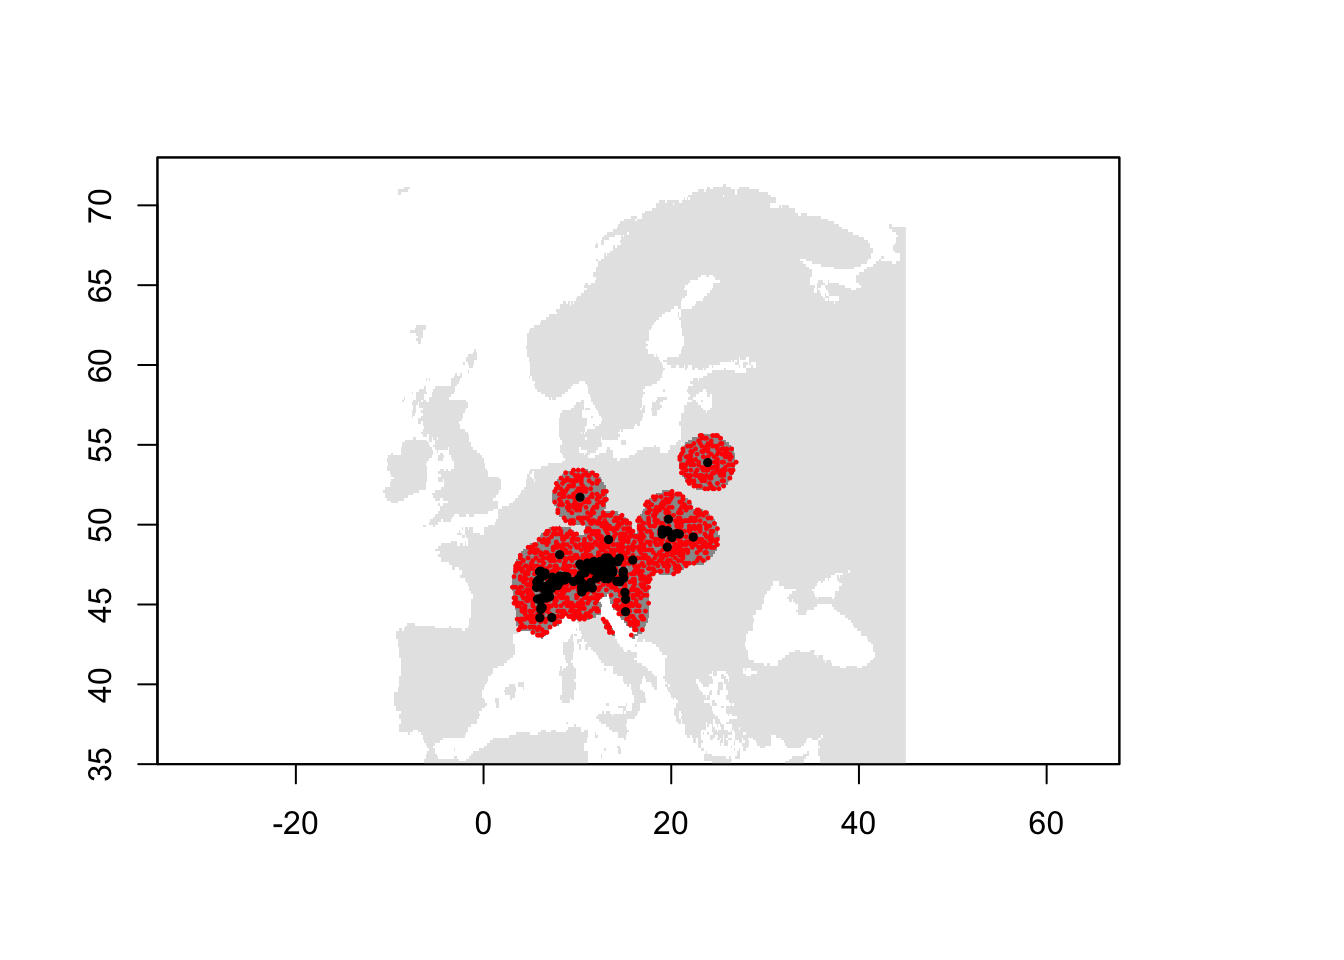
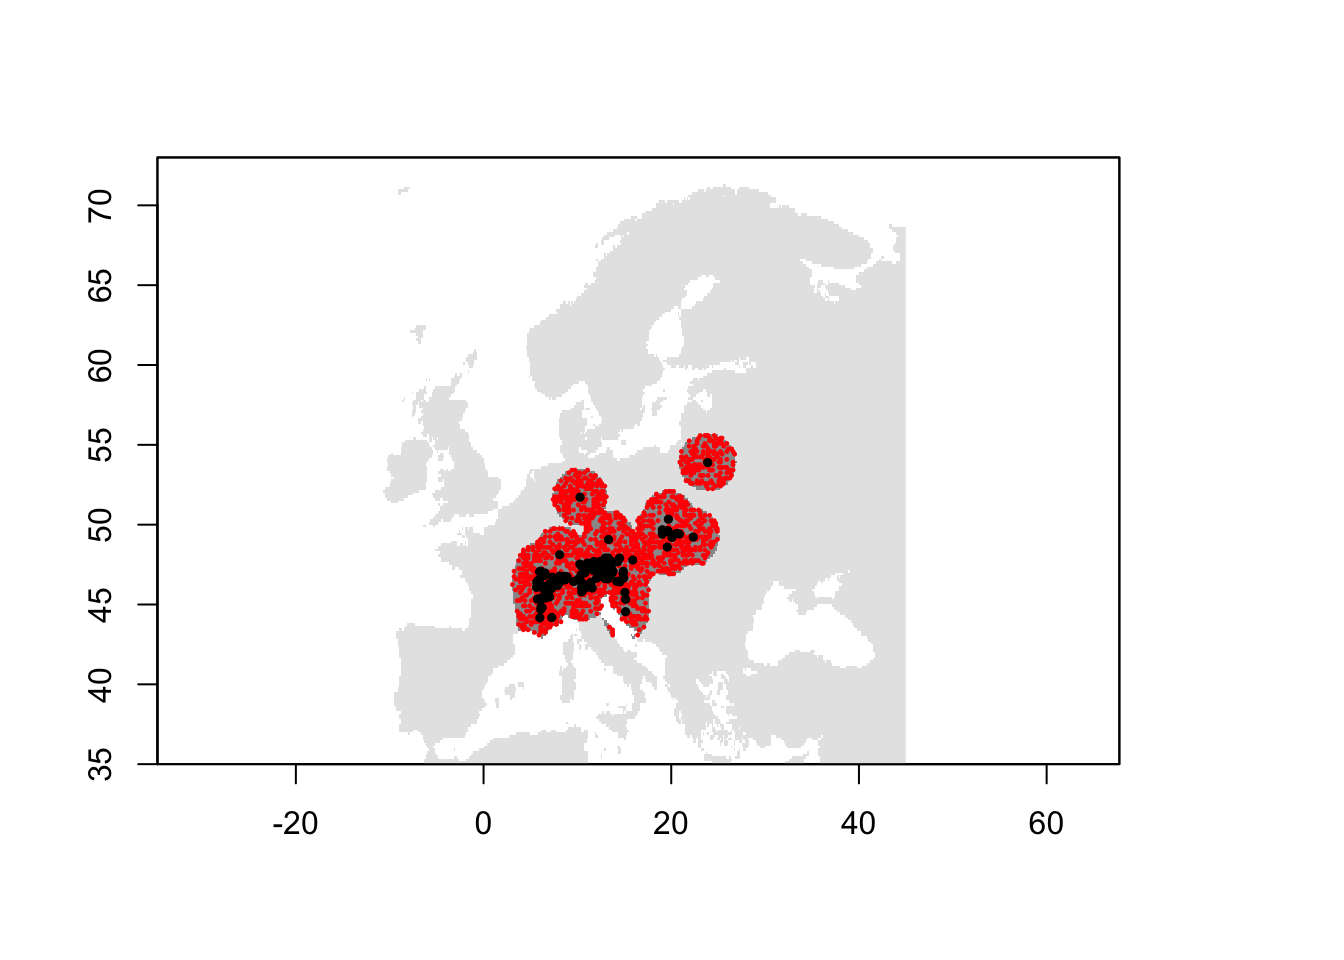
add spatial thinning

Changed region(s): [[0.375, 0.4375, 0.5625, 0.6562]]

diff --git a/5_pseudoabsence.html b/5_pseudoabsence.html
@@ -651,84 +651,158 @@ bg_dat &lt;- data.frame(bg_dat)
 summary(bg_dat)</code></pre>
 <pre><code>##        x                y        
 ##  Min.   : 3.083   Min.   :43.08  
-##  1st Qu.: 9.083   1st Qu.:46.42  
-##  Median :13.750   Median :48.42  
-##  Mean   :14.195   Mean   :48.62  
-##  3rd Qu.:19.583   3rd Qu.:50.42  
-##  Max.   :26.917   Max.   :55.58</code></pre>
+##  1st Qu.: 9.250   1st Qu.:46.58  
+##  Median :13.750   Median :48.58  
+##  Mean   :14.292   Mean   :48.77  
+##  3rd Qu.:19.750   3rd Qu.:50.75  
+##  Max.   :26.750   Max.   :55.58</code></pre>
 <pre class="r"><code>names(bg_dat) &lt;- c(&#39;decimalLongitude&#39;,&#39;decimalLatitude&#39;)
 bg_dat$occ &lt;- 0
 summary(bg_dat)</code></pre>
 <pre><code>##  decimalLongitude decimalLatitude      occ   
 ##  Min.   : 3.083   Min.   :43.08   Min.   :0  
-##  1st Qu.: 9.083   1st Qu.:46.42   1st Qu.:0  
-##  Median :13.750   Median :48.42   Median :0  
-##  Mean   :14.195   Mean   :48.62   Mean   :0  
-##  3rd Qu.:19.583   3rd Qu.:50.42   3rd Qu.:0  
-##  Max.   :26.917   Max.   :55.58   Max.   :0</code></pre>
+##  1st Qu.: 9.250   1st Qu.:46.58   1st Qu.:0  
+##  Median :13.750   Median :48.58   Median :0  
+##  Mean   :14.292   Mean   :48.77   Mean   :0  
+##  3rd Qu.:19.750   3rd Qu.:50.75   3rd Qu.:0  
+##  Max.   :26.750   Max.   :55.58   Max.   :0</code></pre>
 <pre class="r"><code># Third, we bind these two data sets
 sp_env &lt;- rbind(sp_env, bg_dat)
 summary(sp_env)</code></pre>
 <pre><code>##  decimalLongitude decimalLatitude      occ         
 ##  Min.   : 3.083   Min.   :43.08   Min.   :0.00000  
-##  1st Qu.: 8.917   1st Qu.:46.38   1st Qu.:0.00000  
-##  Median :13.250   Median :48.25   Median :0.00000  
-##  Mean   :13.949   Mean   :48.48   Mean   :0.09091  
-##  3rd Qu.:19.083   3rd Qu.:50.25   3rd Qu.:0.00000  
-##  Max.   :26.917   Max.   :55.58   Max.   :1.00000</code></pre>
+##  1st Qu.: 9.083   1st Qu.:46.42   1st Qu.:0.00000  
+##  Median :13.150   Median :48.25   Median :0.00000  
+##  Mean   :14.037   Mean   :48.61   Mean   :0.09091  
+##  3rd Qu.:19.250   3rd Qu.:50.58   3rd Qu.:0.00000  
+##  Max.   :26.750   Max.   :55.58   Max.   :1.00000</code></pre>
 <pre class="r"><code># Last, we join this combined data set with the climate data.
 sp_env &lt;- cbind(sp_env, raster::extract(x = clim, y = sp_env[,c(&#39;decimalLongitude&#39;,&#39;decimalLatitude&#39;)], cellnumbers=T) )
 summary(sp_env)</code></pre>
 <pre><code>##  decimalLongitude decimalLatitude      occ              cells      
 ##  Min.   : 3.083   Min.   :43.08   Min.   :0.00000   Min.   :35779  
-##  1st Qu.: 8.917   1st Qu.:46.38   1st Qu.:0.00000   1st Qu.:46708  
-##  Median :13.250   Median :48.25   Median :0.00000   Median :50811  
-##  Mean   :13.949   Mean   :48.48   Mean   :0.09091   Mean   :50310  
-##  3rd Qu.:19.083   3rd Qu.:50.25   3rd Qu.:0.00000   3rd Qu.:54547  
-##  Max.   :26.917   Max.   :55.58   Max.   :1.00000   Max.   :61385  
-##       bio1             bio2             bio3            bio4     
-##  Min.   :-25.00   Min.   : 53.00   Min.   :24.00   Min.   :5073  
-##  1st Qu.: 67.00   1st Qu.: 81.00   1st Qu.:29.00   1st Qu.:6258  
-##  Median : 81.00   Median : 86.00   Median :31.00   Median :6821  
-##  Mean   : 79.83   Mean   : 85.88   Mean   :30.37   Mean   :6898  
-##  3rd Qu.: 95.00   3rd Qu.: 92.00   3rd Qu.:32.00   3rd Qu.:7546  
-##  Max.   :157.00   Max.   :105.00   Max.   :39.00   Max.   :8893  
-##       bio5            bio6             bio7            bio8      
-##  Min.   : 78.0   Min.   :-126.0   Min.   :198.0   Min.   :-72.0  
-##  1st Qu.:218.0   1st Qu.: -77.0   1st Qu.:258.0   1st Qu.:131.0  
-##  Median :230.0   Median : -52.0   Median :279.0   Median :162.0  
-##  Mean   :228.2   Mean   : -50.9   Mean   :279.1   Mean   :142.8  
-##  3rd Qu.:245.0   3rd Qu.: -28.0   3rd Qu.:304.0   3rd Qu.:171.0  
-##  Max.   :302.0   Max.   :  47.0   Max.   :331.0   Max.   :204.0  
-##       bio9            bio10           bio11            bio12       
-##  Min.   :-87.00   Min.   : 41.0   Min.   :-87.00   Min.   : 492.0  
-##  1st Qu.:-19.00   1st Qu.:158.0   1st Qu.:-35.00   1st Qu.: 647.0  
-##  Median :  9.00   Median :168.0   Median :-11.00   Median : 765.0  
-##  Mean   : 23.86   Mean   :166.2   Mean   :-10.75   Mean   : 842.9  
-##  3rd Qu.: 38.00   3rd Qu.:180.0   3rd Qu.:  7.00   3rd Qu.: 983.0  
-##  Max.   :236.00   Max.   :236.0   Max.   : 87.00   Max.   :1973.0  
-##      bio13           bio14            bio15           bio16           bio17    
-##  Min.   : 61.0   Min.   : 10.00   Min.   : 7.00   Min.   :169.0   Min.   : 65  
-##  1st Qu.: 81.0   1st Qu.: 31.00   1st Qu.:19.00   1st Qu.:226.0   1st Qu.:105  
-##  Median : 92.0   Median : 43.00   Median :27.00   Median :257.0   Median :139  
-##  Mean   :101.9   Mean   : 46.69   Mean   :26.39   Mean   :284.7   Mean   :153  
-##  3rd Qu.:119.0   3rd Qu.: 56.00   3rd Qu.:33.00   3rd Qu.:330.0   3rd Qu.:181  
-##  Max.   :195.0   Max.   :145.00   Max.   :48.00   Max.   :563.0   Max.   :458  
-##      bio18           bio19      
-##  Min.   : 71.0   Min.   : 65.0  
-##  1st Qu.:214.0   1st Qu.:116.0  
-##  Median :238.0   Median :154.0  
-##  Mean   :265.8   Mean   :171.9  
-##  3rd Qu.:304.0   3rd Qu.:207.0  
-##  Max.   :563.0   Max.   :516.0</code></pre>
+##  1st Qu.: 9.083   1st Qu.:46.42   1st Qu.:0.00000   1st Qu.:46019  
+##  Median :13.150   Median :48.25   Median :0.00000   Median :50714  
+##  Mean   :14.037   Mean   :48.61   Mean   :0.09091   Mean   :50027  
+##  3rd Qu.:19.250   3rd Qu.:50.58   3rd Qu.:0.00000   3rd Qu.:54492  
+##  Max.   :26.750   Max.   :55.58   Max.   :1.00000   Max.   :61389  
+##       bio1            bio2             bio3            bio4     
+##  Min.   :-26.0   Min.   : 53.00   Min.   :24.00   Min.   :5092  
+##  1st Qu.: 67.0   1st Qu.: 81.00   1st Qu.:29.00   1st Qu.:6260  
+##  Median : 80.0   Median : 86.00   Median :31.00   Median :6822  
+##  Mean   : 79.6   Mean   : 85.67   Mean   :30.34   Mean   :6899  
+##  3rd Qu.: 94.0   3rd Qu.: 92.00   3rd Qu.:32.00   3rd Qu.:7559  
+##  Max.   :164.0   Max.   :107.00   Max.   :39.00   Max.   :8884  
+##       bio5            bio6              bio7            bio8      
+##  Min.   : 78.0   Min.   :-126.00   Min.   :198.0   Min.   :-72.0  
+##  1st Qu.:217.0   1st Qu.: -77.00   1st Qu.:257.0   1st Qu.:134.0  
+##  Median :229.0   Median : -52.00   Median :279.0   Median :162.0  
+##  Mean   :227.8   Mean   : -50.93   Mean   :278.7   Mean   :142.4  
+##  3rd Qu.:243.0   3rd Qu.: -28.00   3rd Qu.:303.0   3rd Qu.:171.0  
+##  Max.   :302.0   Max.   :  58.00   Max.   :331.0   Max.   :204.0  
+##       bio9            bio10         bio11            bio12       
+##  Min.   :-87.00   Min.   : 40   Min.   :-89.00   Min.   : 492.0  
+##  1st Qu.:-18.00   1st Qu.:158   1st Qu.:-34.00   1st Qu.: 637.0  
+##  Median :  9.00   Median :168   Median :-10.00   Median : 768.0  
+##  Mean   : 21.32   Mean   :166   Mean   :-10.96   Mean   : 837.8  
+##  3rd Qu.: 39.00   3rd Qu.:179   3rd Qu.:  6.00   3rd Qu.: 972.0  
+##  Max.   :239.00   Max.   :239   Max.   : 95.00   Max.   :2121.0  
+##      bio13           bio14            bio15           bio16      
+##  Min.   : 60.0   Min.   : 11.00   Min.   : 7.00   Min.   :167.0  
+##  1st Qu.: 80.0   1st Qu.: 31.00   1st Qu.:18.00   1st Qu.:223.0  
+##  Median : 91.0   Median : 43.00   Median :27.00   Median :255.0  
+##  Mean   :100.6   Mean   : 46.66   Mean   :25.98   Mean   :281.3  
+##  3rd Qu.:117.0   3rd Qu.: 56.00   3rd Qu.:33.00   3rd Qu.:325.0  
+##  Max.   :200.0   Max.   :153.00   Max.   :48.00   Max.   :580.0  
+##      bio17           bio18         bio19      
+##  Min.   : 65.0   Min.   : 78   Min.   : 65.0  
+##  1st Qu.:104.0   1st Qu.:214   1st Qu.:114.0  
+##  Median :139.0   Median :238   Median :155.0  
+##  Mean   :152.8   Mean   :264   Mean   :171.5  
+##  3rd Qu.:181.0   3rd Qu.:297   3rd Qu.:209.0  
+##  Max.   :474.0   Max.   :563   Max.   :541.0</code></pre>
+<div id="spatial-thinning" class="section level2">
+<h2><span class="header-section-number">4.1</span> Spatial thinning</h2>
+<p>When we prepare our distribution data for species distribution modelling, we also need to think about spatial autocorrelation. Using adjacent cells in model building can lead to problems with spatial autocorrelation. One way to avoid this is spatially thinning the records, for example using the package <code>spThin</code> <span class="citation">(Aiello-Lammens et al. 2015)</span>. Load the package and look up the help page <code>?thin</code>.</p>
+<pre class="r"><code>library(spThin)
+
+# The spThin package requires longitude/latitude coordinates, which we already have.
+# Look up the help page and try to understand the function:
+?thin
+
+# thin() expects that the data.frame contains a column with the species name
+sp_env$sp &lt;- &#39;Sorex_alpinus&#39;
+  
+# Remove adjacent cells of presence/background data:
+xy &lt;- thin(sp_env, lat.col=&#39;decimalLatitude&#39;,long.col=&#39;decimalLongitude&#39;,spec.col=&#39;sp&#39;, thin.par=20,reps=5, write.files=F,locs.thinned.list.return=T)</code></pre>
+<pre><code>## ********************************************** 
+##  Beginning Spatial Thinning.
+##  Script Started at: Sun Feb 21 18:27:12 2021
+## lat.long.thin.count
+## 1061 1063 1066 
+##    1    1    3 
+## [1] &quot;Maximum number of records after thinning: 1066&quot;
+## [1] &quot;Number of data.frames with max records: 3&quot;
+## [1] &quot;No files written for this run.&quot;</code></pre>
+<pre class="r"><code>xy_keep &lt;- xy[[which.max(sapply(xy,nrow))]]
+
+# Which run yields the most presence records?
+which.max(sapply(xy,nrow))</code></pre>
+<pre><code>## [1] 1</code></pre>
+<pre class="r"><code># Thin the dataset - here, we first extract the cell numbers for the thinned coordinates and then use these to subset our data frame.
+cells_thinned &lt;- cellFromXY(clim, xy_keep)
+sp_thinned &lt;- sp_env[sp_env$cells %in% cells_thinned,]
+
+# Plot the map and data
+plot(mask, col=&#39;grey90&#39;, legend=F)
+points(sp_thinned[,1:2],pch=19,col=c(&#39;black&#39;,&#39;red&#39;)[as.factor(sp_thinned$occ)], cex=0.3)</code></pre>
+<p><img src="5_pseudoabsence_files/figure-html/unnamed-chunk-16-1.png" width="672" /></p>
+<pre class="r"><code># Alternatively, remove adjacent cells separately in presence data and background data:
+xy_pres &lt;- thin(sp_env[sp_env$occ==1,], lat.col=&#39;decimalLatitude&#39;,long.col=&#39;decimalLongitude&#39;,spec.col=&#39;sp&#39;, thin.par=20,reps=5, write.files=F,locs.thinned.list.return=T)</code></pre>
+<pre><code>## ********************************************** 
+##  Beginning Spatial Thinning.
+##  Script Started at: Sun Feb 21 18:27:21 2021
+## lat.long.thin.count
+## 91 93 
+##  1  4 
+## [1] &quot;Maximum number of records after thinning: 93&quot;
+## [1] &quot;Number of data.frames with max records: 4&quot;
+## [1] &quot;No files written for this run.&quot;</code></pre>
+<pre class="r"><code>xy_pres_keep &lt;- xy_pres[[which.max(sapply(xy_pres,nrow))]]
+
+xy_abs &lt;- thin(sp_env[sp_env$occ==0,], lat.col=&#39;decimalLatitude&#39;,long.col=&#39;decimalLongitude&#39;,spec.col=&#39;sp&#39;, thin.par=20,reps=5, write.files=F,locs.thinned.list.return=T)</code></pre>
+<pre><code>## ********************************************** 
+##  Beginning Spatial Thinning.
+##  Script Started at: Sun Feb 21 18:27:21 2021
+## lat.long.thin.count
+## 1012 1015 1016 1017 1020 
+##    1    1    1    1    1 
+## [1] &quot;Maximum number of records after thinning: 1020&quot;
+## [1] &quot;Number of data.frames with max records: 1&quot;
+## [1] &quot;No files written for this run.&quot;</code></pre>
+<pre class="r"><code>xy_abs_keep &lt;- xy_abs[[which.max(sapply(xy_abs,nrow))]]
+
+# Thin the dataset - here, we first extract the cell numbers for the thinned coordinates and then use these to subset our data frame.
+cells_thinned2 &lt;- cellFromXY(clim, rbind(xy_pres_keep, xy_abs_keep))
+sp_thinned2 &lt;- sp_env[sp_env$cells %in% cells_thinned2,]
+
+# Plot the map and data
+plot(mask, col=&#39;grey90&#39;, legend=F)
+points(sp_thinned2[,1:2],pch=19,col=c(&#39;black&#39;,&#39;red&#39;)[as.factor(sp_thinned2$occ)], cex=0.3)</code></pre>
+<p><img src="5_pseudoabsence_files/figure-html/unnamed-chunk-16-2.png" width="672" /></p>
+<p><strong>Hint:</strong> Another useful function for spatial thinning is <code>gridSample()</code> in the <code>dismo</code> package.</p>
 <div class="alert alert-info">
 <p><em><strong>Exercise:</strong></em></p>
 <p>Use the GBIF data for your own species (from practical 1), sample background data and prepare a data set with species and climate data. Use these data to run SDMs.</p>
 </div>
 </div>
+</div>
 <div id="references" class="section level1 unnumbered">
 <h1>References</h1>
 <div id="refs" class="references">
+<div id="ref-Aiello-Lammens2015">
+<p>Aiello-Lammens, Matthew E., Robert A. Boria, Aleksandar Radosavljevic, Bruno Vilela, and Robert P. Anderson. 2015. “spThin: An R Package for Spatial Thinning of Species Occurrence Records for Use in Ecological Niche Models.” <em>Ecography</em> 38 (5). Wiley: 541–45. <a href="https://doi.org/10.1111/ecog.01132">https://doi.org/10.1111/ecog.01132</a>.</p>
+</div>
 <div id="ref-BarbetMassin2012a">
 <p>Barbet-Massin, Morgane, Frederic Jiguet, Cecile Helene Albert, and Wilfried Thuiller. 2012. “Selecting Pseudo-Absences for Species Distribution Models: How, Where and How Many?” <em>Methods in Ecology and Evolution</em> 3 (2): 327–38. <a href="https://doi.org/10.1111/j.2041-210X.2011.00172.x">https://doi.org/10.1111/j.2041-210X.2011.00172.x</a>.</p>
 </div>
